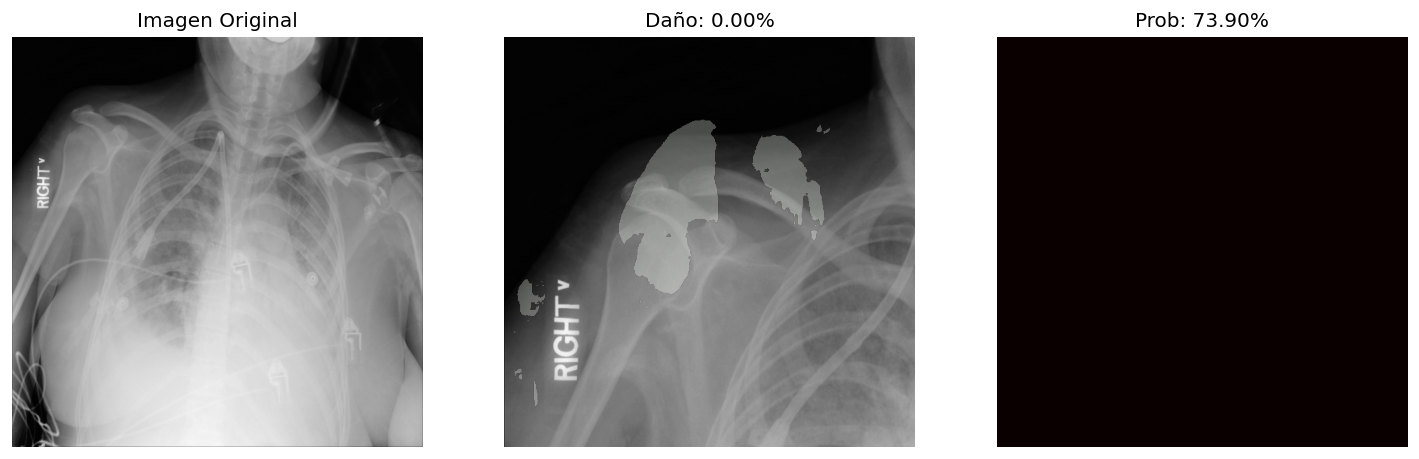
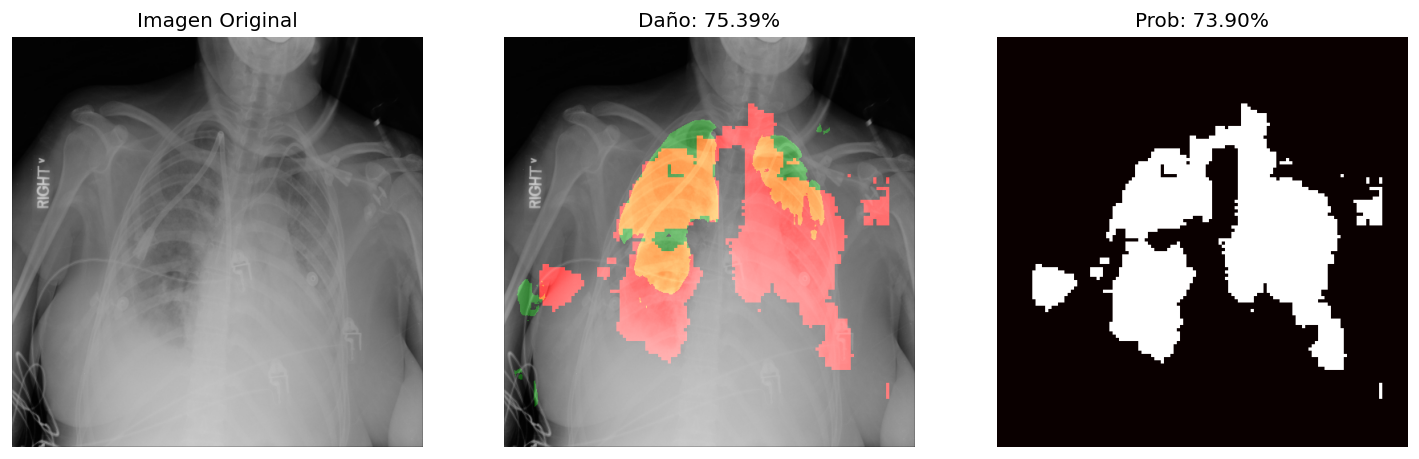
modelos funcional

diff --git a/src/3_evaluate.py b/src/3_evaluate.py
@@ -36,28 +36,41 @@ class PneumoniaEvaluator:
         
         return results
     
-    def visualize_predictions(self, num_samples=3):
-        """Visualización de predicciones"""
-        print("\n=== VISUALIZACIÓN DE PREDICCIONES ===")
+    def predict_single_image(self, image_path):
+        """Realizar predicción en una sola imagen"""
+        print(f"\n=== PREDICCIÓN PARA IMAGEN: {image_path} ===")
         
-        # Configurar matplotlib
-        plt.figure(figsize=(15, 5*num_samples))
+        # Verificar si la imagen existe
+        if not os.path.exists(image_path):
+            raise FileNotFoundError(f"No se encontró la imagen en: {image_path}")
         
-        for i in range(num_samples):
-            # Seleccionar muestra aleatoria
-            sample = self.val_df.sample(1).iloc[0]
-            img_path = os.path.join(config.TRAIN_IMG_DIR, f"{sample['patientId']}.png")
+        # Obtener el nombre del archivo sin extensión
+        image_name = os.path.splitext(os.path.basename(image_path))[0]
+        
+        # Buscar en el dataframe si la imagen tiene anotaciones
+        sample = None
+        if image_name in self.val_df['patientId'].values:
+            sample = self.val_df[self.val_df['patientId'] == image_name].iloc[0]
+        
+        # Cargar y preprocesar imagen
+        img = cv2.imread(image_path, cv2.IMREAD_GRAYSCALE)
+        if img is None:
+            raise ValueError(f"No se pudo cargar la imagen: {image_path}")
             
-            # Cargar y preprocesar imagen
-            img = cv2.imread(img_path, cv2.IMREAD_GRAYSCALE)
-            img = cv2.resize(img, config.IMG_SIZE)
-            img_input = np.expand_dims(img, axis=(0, -1)) / 255.0
-            
-            # Predecir
-            pred = self.model.predict(img_input)[0]
-            pred_mask = (pred > 0.5).astype(np.uint8)
-            
-            # Crear máscara real (ground truth)
+        original_size = img.shape[:2]  # Guardar tamaño original
+        img_resized = cv2.resize(img, config.IMG_SIZE)
+        img_input = np.expand_dims(img_resized, axis=(0, -1)) / 255.0
+        
+        # Predecir
+        pred = self.model.predict(img_input)[0]
+        pred_mask = (pred > 0.1).astype(np.uint8)
+        
+        # Redimensionar la máscara de predicción al tamaño original
+        pred_mask_original = cv2.resize(pred_mask.squeeze(), (original_size[1], original_size[0]))
+        
+        # Crear máscara real (ground truth) si existe en los datos
+        true_mask = None
+        if sample is not None:
             true_mask = np.zeros(config.IMG_SIZE, dtype=np.uint8)
             if sample['Target'] == 1:
                 x = int(sample['x'] * config.IMG_SIZE[1] / 1024)
@@ -65,28 +78,43 @@ class PneumoniaEvaluator:
                 w = int(sample['width'] * config.IMG_SIZE[1] / 1024)
                 h = int(sample['height'] * config.IMG_SIZE[0] / 1024)
                 cv2.rectangle(true_mask, (x,y), (x+w,y+h), 1, -1)
-            
-            # Visualización
-            plt.subplot(num_samples, 3, i*3+1)
-            plt.imshow(img, cmap='gray')
-            plt.title(f"Imagen {sample['patientId']}\nTarget: {sample['Target']}")
-            plt.axis('off')
-            
-            plt.subplot(num_samples, 3, i*3+2)
+        
+        # Visualización
+        plt.figure(figsize=(15, 5))
+        
+        plt.subplot(1, 3, 1)
+        plt.imshow(img, cmap='gray')
+        plt.title(f"Imagen Original\n{os.path.basename(image_path)}")
+        plt.axis('off')
+        
+        if true_mask is not None:
+            plt.subplot(1, 3, 2)
             plt.imshow(true_mask, cmap='gray')
-            plt.title("Máscara Real")
+            plt.title("Máscara Real (si existe)")
             plt.axis('off')
-            
-            plt.subplot(num_samples, 3, i*3+3)
-            plt.imshow(pred_mask.squeeze(), cmap='gray')
-            plt.title("Predicción del Modelo")
+        else:
+            plt.subplot(1, 3, 2)
+            plt.text(0.5, 0.5, "No hay máscara real\ndisponible", 
+                    ha='center', va='center')
             plt.axis('off')
         
+        plt.subplot(1, 3, 3)
+        plt.imshow(pred_mask.squeeze(), cmap='gray')
+        plt.title("Predicción del Modelo")
+        plt.axis('off')
+        
         plt.tight_layout()
-        output_path = os.path.join(config.MODEL_SAVE_DIR, 'predictions.png')
+        output_path = os.path.join(config.MODEL_SAVE_DIR, f'prediction_{image_name}.png')
         plt.savefig(output_path)
-        print(f"\n💾 Visualizaciones guardadas en: {output_path}")
+        print(f"\n💾 Visualización guardada en: {output_path}")
         plt.show()
+        
+        return {
+            'image': img,
+            'prediction': pred_mask_original,
+            'ground_truth': true_mask,
+            'prediction_resized': pred_mask
+        }
 
 class PneumoniaDataGenerator(tf.keras.utils.Sequence):
     """Generador de datos para evaluación (similar al de entrenamiento)"""
@@ -136,17 +164,20 @@ if __name__ == '__main__':
     try:
         evaluator = PneumoniaEvaluator()
         
-        # 1. Evaluación cuantitativa
-        evaluator.evaluate_model()
+        # 1. Evaluación cuantitativa (opcional)
+        # evaluator.evaluate_model()
         
-        # 2. Visualización cualitativa
-        evaluator.visualize_predictions(num_samples=3)
+        # 2. Definir la ruta de la imagen directamente en el código
+        image_path = "dataset/Test/neumoniasevera.png"  # <-- MODIFICA AQUÍ CON TU RUTA
+        
+        # 3. Realizar predicción en la imagen especificada
+        evaluator.predict_single_image(image_path)
         
         print("\n🎉 Evaluación completada con éxito!")
     except Exception as e:
         print(f"\n❌ Error durante la evaluación: {str(e)}")
         print("\nPosibles soluciones:")
-        print("1. Verifica que hayas ejecutado primero 1_preprocess.py y 2_train.py")
+        print("1. Verifica que la ruta de la imagen sea correcta")
         print("2. Confirma que existe best_model.keras en la carpeta models/")
         print("3. Asegúrate que los archivos de validación estén en su lugar")
         print("4. Revisa que las rutas en config.py sean correctas")

diff --git a/src/predict.py b/src/predict.py
@@ -9,7 +9,7 @@ import matplotlib.pyplot as plt
 
 # ========== CONFIGURACIÓN ==========
 INPUT_CONFIG = {
-    'image_path': 'dataset/Test/neumonia-.png',  # Ruta de la imagen
+    'image_path': "dataset/Test/neumoniasevera.png",  # Ruta de la imagen
     'age': 45,                                 # Edad del paciente
     'sex': 1,                                  # 0: Femenino, 1: Masculino
     'output_dir': 'results',                   # Carpeta para guardar resultados
@@ -45,6 +45,16 @@ def preprocess_for_model(image, target_size):
     img = cv2.resize(image, target_size)
     img = img.astype(np.float32) / 255.0
     return np.expand_dims(img, axis=-1)  # Añade dimensión de canal
+
+def apply_colored_mask(image, mask, color=[0, 255, 0], alpha=0.3):
+    """Superpone una máscara coloreada sobre la imagen original."""
+    # Crear una máscara RGB del color especificado
+    colored_mask = np.zeros_like(image)
+    colored_mask[mask > 0] = color  # Aplicar color (ej: verde [0,255,0])
+    
+    # Combinar imagen y máscara con transparencia
+    overlayed = cv2.addWeighted(image, 1, colored_mask, alpha, 0)
+    return overlayed
 
 # ========== PIPELINE PRINCIPAL ==========
 def main():
@@ -102,25 +112,19 @@ def main():
         print(f"❌ Error en segmentación pulmonar: {str(e)}")
         return
 
-    # Detección de daño
+    # ========== DETECCIÓN DE DAÑO (VERSIÓN CORREGIDA) ==========
     print("\n⚠ Detectando áreas dañadas...")
     try:
-        # Preprocesar específicamente para el modelo 'damage' (128x128)
+        # Preprocesar para el modelo 'damage' (128x128)
         damage_img = preprocess_for_model(original_img, INPUT_CONFIG['damage_size'])
         damage_input = np.expand_dims(damage_img, axis=0)  # Forma: (1, 128, 128, 1)
         
-        boxes = models['damage'].predict(damage_input)[0]
-        damage_mask = np.zeros(INPUT_CONFIG['img_size'], dtype=np.uint8)  # Mascara final en 512x512
+        # Predecir (genera máscara binaria)
+        pred = models['damage'].predict(damage_input)[0]
+        pred_mask = (pred > 0.1).astype(np.uint8)  # Usa el mismo umbral que en tu prueba
         
-        for box in boxes:
-            if box[4] > 0.3:  # Filtro de confianza
-                x, y, w, h = box[:4]
-                # Escalar coordenadas a 512x512 (tamaño original para visualización)
-                x1 = int(x * INPUT_CONFIG['img_size'][1])
-                y1 = int(y * INPUT_CONFIG['img_size'][0])
-                x2 = int((x + w) * INPUT_CONFIG['img_size'][1])
-                y2 = int((y + h) * INPUT_CONFIG['img_size'][0])
-                cv2.rectangle(damage_mask, (x1, y1), (x2, y2), 1, -1)
+        # Redimensionar a 512x512 para que coincida con lung_mask
+        damage_mask = cv2.resize(pred_mask.squeeze(), INPUT_CONFIG['img_size'], interpolation=cv2.INTER_NEAREST)
         
         print(f"• Áreas dañadas detectadas: {np.sum(damage_mask)} píxeles")
     except Exception as e:
@@ -138,30 +142,52 @@ def main():
     # Visualización
     print("\n🎨 Generando visualización...")
     try:
+        # Convertir todo a RGB
+        original_img_resized = cv2.resize(original_img, INPUT_CONFIG['img_size'])
+        original_img_rgb = cv2.cvtColor(original_img_resized, cv2.COLOR_GRAY2RGB)
+
+        # Crear máscaras coloreadas
+        lung_colored = np.zeros_like(original_img_rgb)
+        lung_colored[lung_mask == 1] = [0, 255, 0]  # Verde
+
+        damage_colored = np.zeros_like(original_img_rgb)
+        damage_colored[damage_mask == 1] = [255, 0, 0]  # Rojo
+
+        # Superponer (usando addWeighted para transparencia)
+        overlay = original_img_rgb.copy()
+        overlay = cv2.addWeighted(overlay, 1.0, lung_colored, 0.3, 0)  # Verde al 30%
+        overlay = cv2.addWeighted(overlay, 1.0, damage_colored, 0.7, 0)  # Rojo al 70%
+
+        # Visualización
         plt.figure(figsize=(15, 5))
-        
+
         # Imagen original
         plt.subplot(1, 3, 1)
-        plt.imshow(original_img, cmap='gray')
-        plt.title("Imagen Original")
+        plt.imshow(original_img_rgb)
+        plt.title(f"{diagnosis} (Probabilidad: {pneumonia_prob:.2%})")
         plt.axis('off')
-        
-        # Superposición
+
+        # Superposición (pulmones + daño)
         plt.subplot(1, 3, 2)
-        plt.imshow(original_img, cmap='gray')
-        plt.imshow(np.ma.masked_where(lung_mask == 0, lung_mask), 
-                  cmap='Greens', alpha=0.3)
-        plt.imshow(np.ma.masked_where(damage_mask == 0, damage_mask), 
-                  cmap='Reds', alpha=0.5)
-        plt.title(f"Daño: {damage_perc:.2f}%")
+        plt.imshow(overlay)
+        plt.title(f"Daño pulmonar: {damage_perc:.2f}%")
         plt.axis('off')
-        
-        # Mapa de calor
+
+        # Mapa de calor del daño (versión funcional)
         plt.subplot(1, 3, 3)
-        plt.imshow(damage_mask, cmap='hot')
-        plt.title(f"Prob: {pneumonia_prob:.2%}")
+
+        # Usar la predicción original (antes del threshold) si está disponible
+        if 'pred' in locals():  # Si existe la variable pred de tu modelo
+            heatmap = cv2.resize(pred.squeeze(), INPUT_CONFIG['img_size'])
+            plt.imshow(heatmap, cmap='hot', vmin=0, vmax=1)  # Escala 0-1
+        else:
+            # Si solo tienes la máscara binaria, conviértela a float
+            plt.imshow(damage_mask.astype(float), cmap='hot', vmin=0, vmax=1)
+
+        plt.colorbar(label='Confianza')  # Añadir barra de color
+        plt.title("Mapa de Calor del Daño")
         plt.axis('off')
-        
+
         # Guardar
         os.makedirs(INPUT_CONFIG['output_dir'], exist_ok=True)
         output_path = os.path.join(INPUT_CONFIG['output_dir'], 
